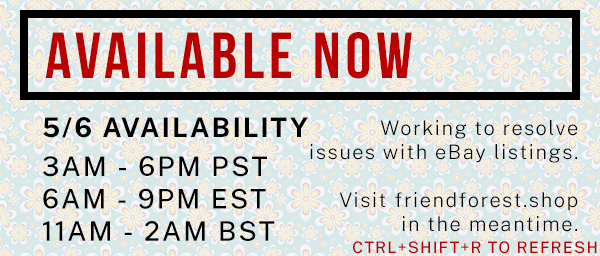
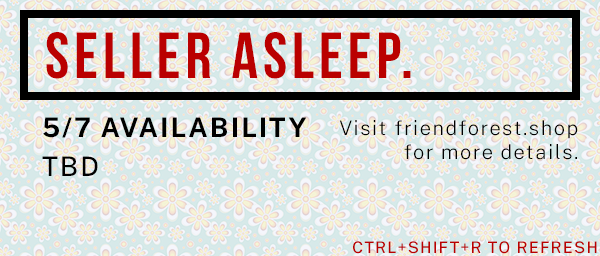
status

diff --git a/index.html b/index.html
@@ -19,13 +19,14 @@
     <h2>FriendForest Shopping Cart</h2>
     <h5>If you received alerts from eBay about my account being compromised, my account has been reinstated. There was no compromise!</h5>
     <p>However, my listings are still hidden for some reason, and eBay customer support is unable to figure out the problem. I am escalating the issue.</p>
-    <p>If you've reached this site from anywhere except an order with <a href="https://www.ebay.com/itm/124166934583">lordbritishdn on eBay</a> or hackish on Fiverr, you may be a victim of a scam!
+    <p>If you've reached this site from anywhere except an order with <a href="https://www.ebay.com/itm/124166934583">lordbritishdn on eBay</a> or hackish on Fiverr, you may be a victim of a scam!</p>
     <p>* Currently, Fishes and Bugs are currently offered only on certain listings. Please check the title of your listing before adding them to your cart.</p>
     <p>* If an item can stack, it will show how many to expect in your stack. If you believe the amount is incorrect please let me know and I will correct it!</p>
-    <p>* This item list was datamined to create this shopping cart and there may be errors or repeats. If it is impossible to deliver a selected item, you may need to make another selection.<br>&nbsp;&nbsp;Check out <a href="https://villagers.club/">villagers.club</a> or <a href="https://almanook.me/">AlmaNook</a> for a fully searchable catalog.</p>
-    <h3>Darryl and family are now beta testing <a href="https://friendforest.shop/">FriendForest.shop</a>!</h3>
+    <p>* Check out <a href="https://villagers.club/">villagers.club</a> or <a href="https://almanook.me/">AlmaNook</a> for a fully searchable catalog.</p>
+    <h3>Darryl and family have launched <a href="https://friendforest.shop/">FriendForest.shop</a> for all your ACNH needs!</h3>
     <h4>Please feel free to order using our new independent platform with payments guaranteed secure by Stripe.</h4>
     <p>Also supports international payment, Apple Pay, Google Pay, etc. The shopping cart item selector is built in and now much more mobile-friendly!</p>
+    <p>Paypal support may be added when eBay issues are resolved.</p>
     <table id="shopping-list-table" class="table table-condensed table-hover">
       <thead>
         <tr>
